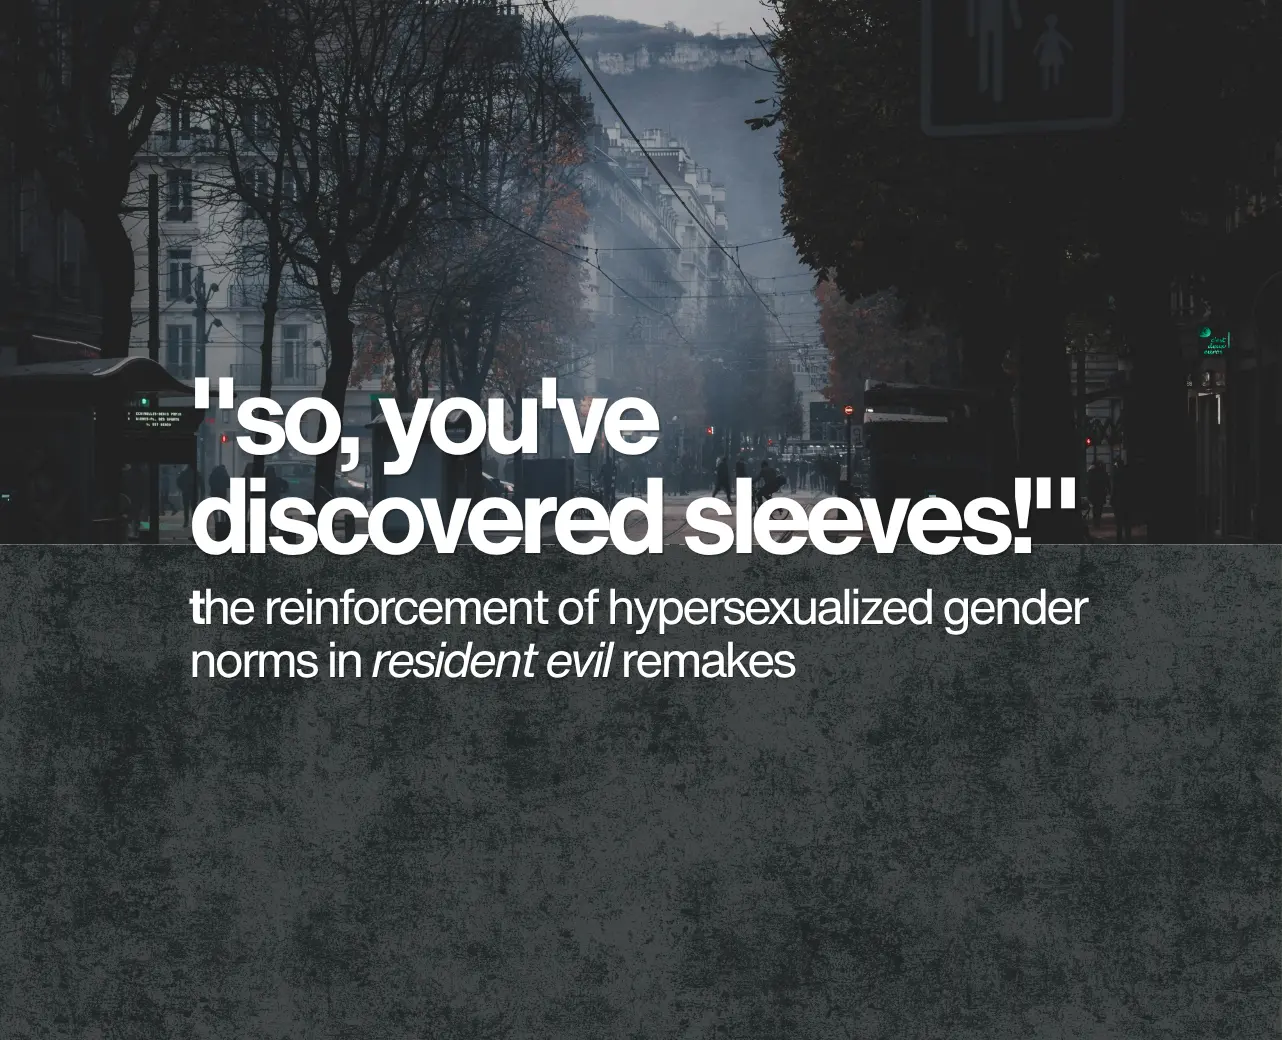
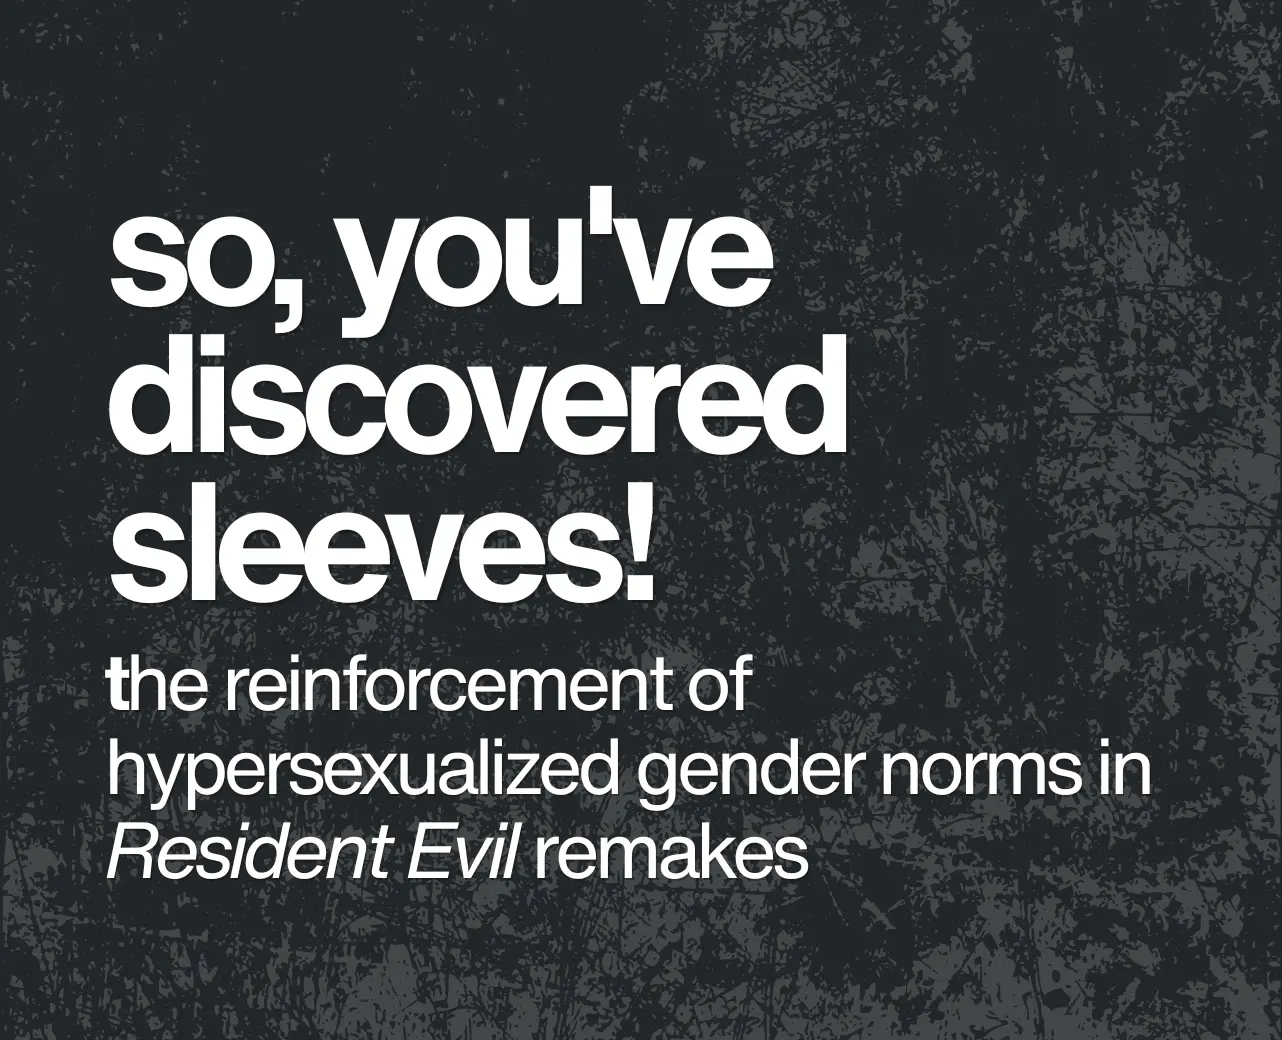
fixed images bc they were fugly

diff --git a/about.html b/about.html
@@ -52,7 +52,7 @@
 						data-bs-target="#projonedetail"
 					>
 						<img 
-							src="images/rese.webp"
+							src="images/So, You've Discovered Sleeves! The Reinforcement of Hypersexualized Gender Norms in Resident Evil Remakes.webp"
 							alt="Open Resident Evil study project"
 						>
 					</button>
